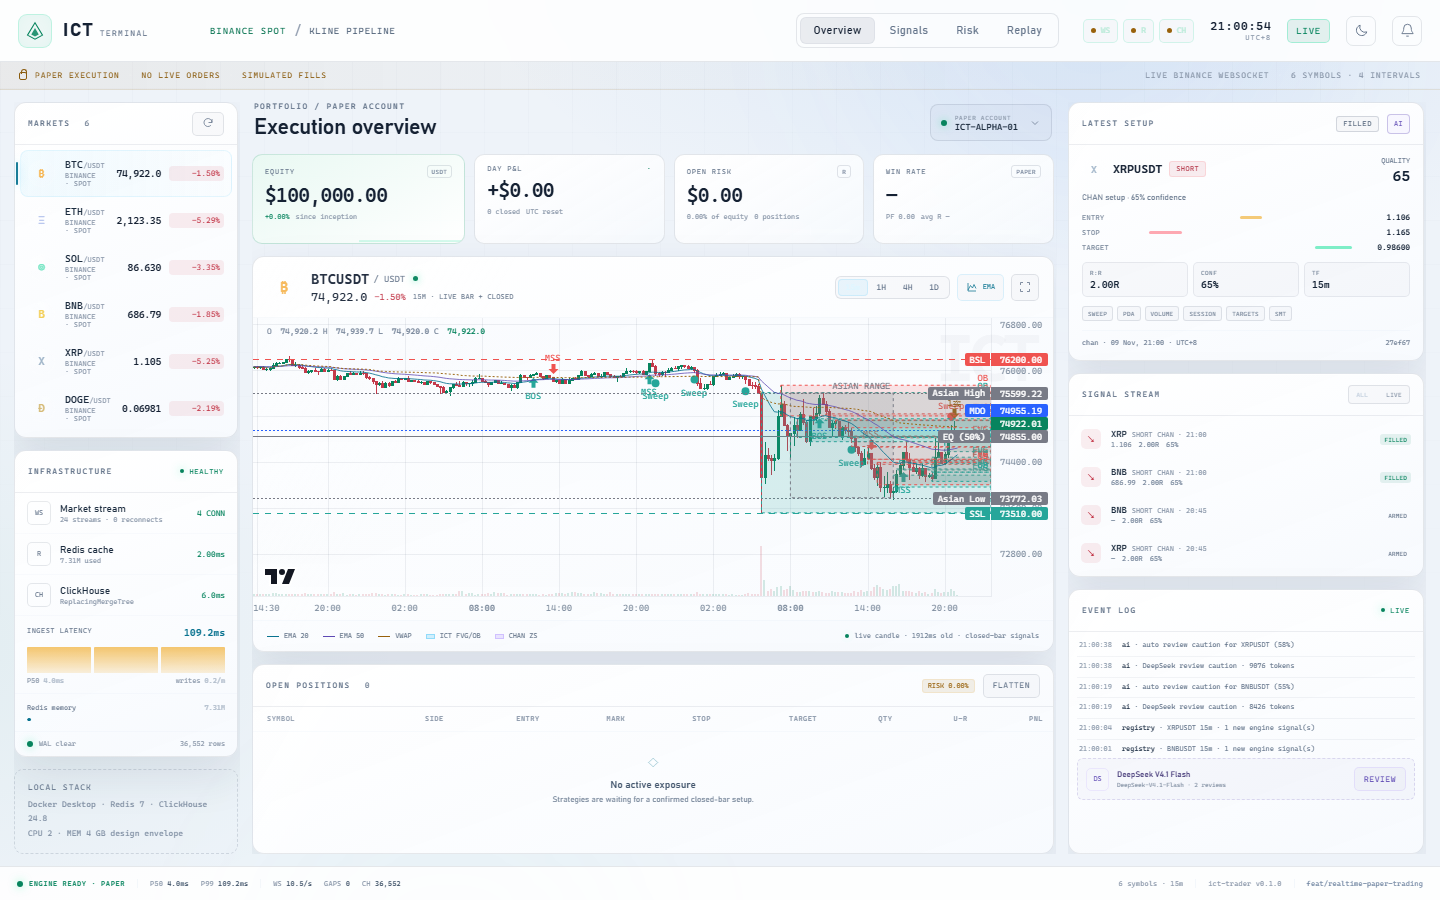
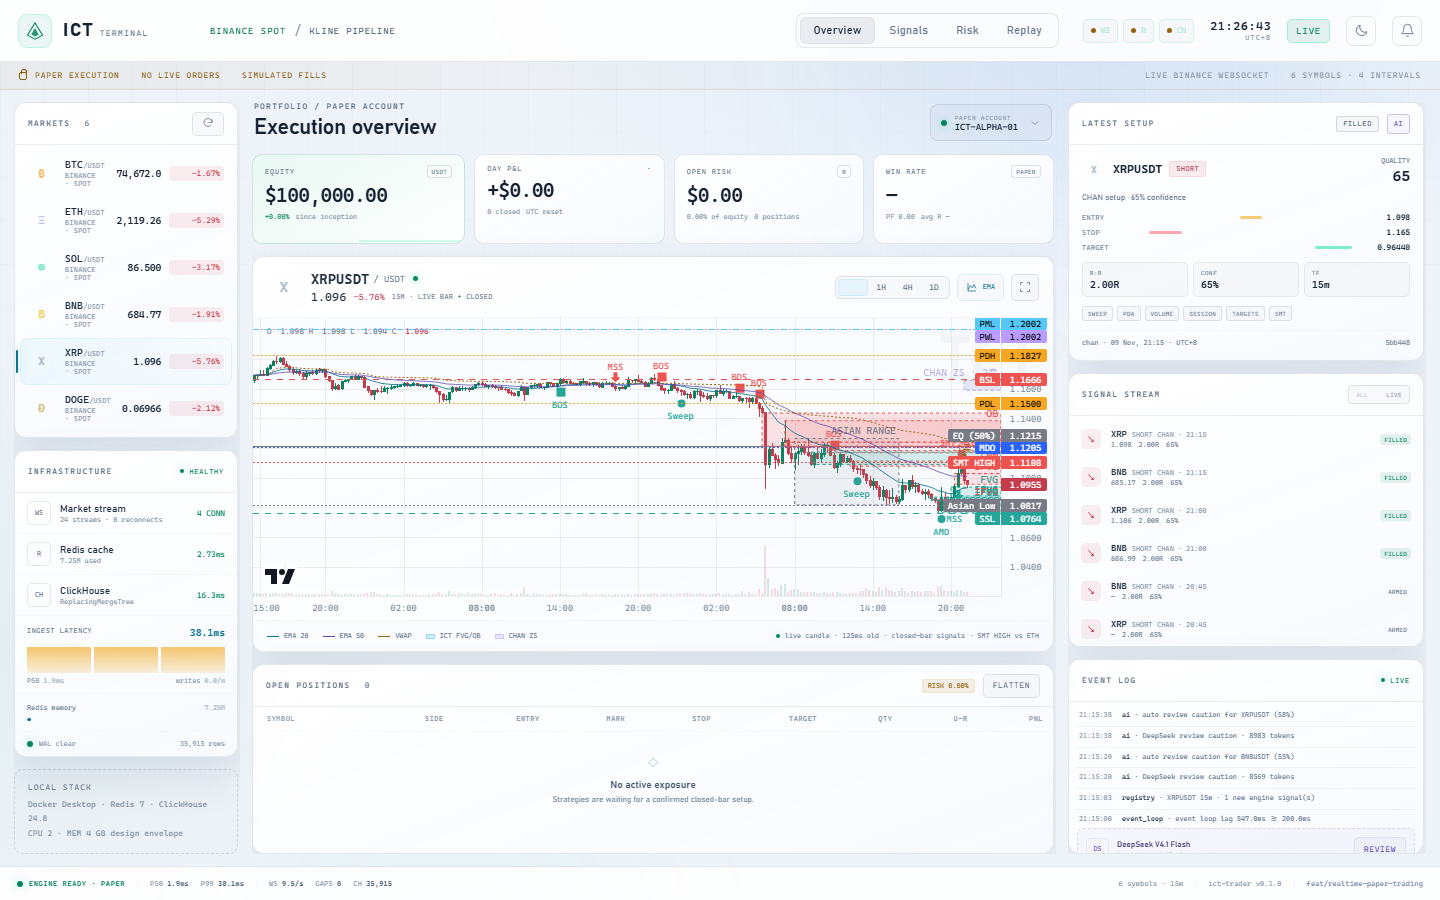
feat: add IFVG, CISD, PO3/AMD overlays

diff --git a/src/ict_trader/realtime/static/app.js b/src/ict_trader/realtime/static/app.js
@@ -1072,16 +1072,69 @@
       });
     };
 
-    // ICT FVG: 3-candle imbalance. Bullish = candle1.high < candle3.low.
+    // ICT FVG: 3-candle imbalance. A later close through the far edge
+    // converts the failed gap into an Inverse FVG (IFVG).
     for (let i = startIdx; i < bars.length - 1; i++) {
       const a = bars[i - 2], c = bars[i];
       if (!a || !c) continue;
       const bullGap = num(c.low) - num(a.high);
       const bearGap = num(a.low) - num(c.high);
       if (bullGap > minGap) {
-        addRect("FVG", "bullish", chartTime(a.open_time), num(a.high), num(c.low), "FVG");
+        let failed = false;
+        for (let j = i + 1; j < bars.length; j++) {
+          if (num(bars[j].close) < num(a.high)) { failed = true; break; }
+        }
+        if (failed) {
+          addRect("IFVG", "bearish", chartTime(a.open_time), num(a.high), num(c.low), "IFVG");
+        } else {
+          addRect("FVG", "bullish", chartTime(a.open_time), num(a.high), num(c.low), "FVG");
+        }
       } else if (bearGap > minGap) {
-        addRect("FVG", "bearish", chartTime(a.open_time), num(c.high), num(a.low), "FVG");
+        let failed = false;
+        for (let j = i + 1; j < bars.length; j++) {
+          if (num(bars[j].close) > num(a.low)) { failed = true; break; }
+        }
+        if (failed) {
+          addRect("IFVG", "bullish", chartTime(a.open_time), num(c.high), num(a.low), "IFVG");
+        } else {
+          addRect("FVG", "bearish", chartTime(a.open_time), num(c.high), num(a.low), "FVG");
+        }
+      }
+    }
+
+    // CISD: a bullish close through the open of a 2+ bearish run (and mirror).
+    let runDir = 0, runCount = 0, runOpen = 0;
+    for (let i = startIdx; i < bars.length; i++) {
+      const b = bars[i], o = num(b.open), c = num(b.close);
+      const bull = c > o;
+      const dir = bull ? 1 : c < o ? -1 : 0;
+      if (dir === 0) continue;
+      if (dir !== runDir) {
+        runDir = dir; runCount = 1; runOpen = o;
+      } else {
+        runCount += 1;
+      }
+      if (dir === 1 && runCount === 1 && runOpen) {
+        // runOpen belongs to the prior bearish run only if we just flipped.
+      }
+      if (dir === 1 && i > startIdx) {
+        const prev = bars[i - 1];
+        if (num(prev.close) < num(prev.open) && c > runOpen && i >= 2) {
+          // runOpen may be current bar's open after the flip; use the first
+          // bearish candle's open from the two-bar lookback instead.
+          const firstBear = bars[i - 2];
+          if (num(firstBear.close) < num(firstBear.open) && c > num(firstBear.open)) {
+            markers.push({ time: chartTime(b.open_time), position: "belowBar", shape: "square", color: "#26a69a", text: "CISD", kind: "CISD", direction: "bullish" });
+          }
+        }
+      } else if (dir === -1 && i > startIdx) {
+        const prev = bars[i - 1];
+        if (num(prev.close) > num(prev.open) && i >= 2) {
+          const firstBull = bars[i - 2];
+          if (num(firstBull.close) > num(firstBull.open) && c < num(firstBull.open)) {
+            markers.push({ time: chartTime(b.open_time), position: "aboveBar", shape: "square", color: "#ef5350", text: "CISD", kind: "CISD", direction: "bearish" });
+          }
+        }
       }
     }
 
@@ -1132,6 +1185,36 @@
       priceLines.push({ price: hi, title: "BSL", color: "#ef5350", lineStyle: 3, lineWidth: 1, startTime: first, endTime: end });
       priceLines.push({ price: lo, title: "SSL", color: "#26a69a", lineStyle: 3, lineWidth: 1, startTime: first, endTime: end });
       priceLines.push({ price: (hi + lo) / 2, title: "EQ (50%)", color: "#787b86", lineStyle: 0, lineWidth: 1, startTime: first, endTime: end });
+    }
+
+    // PO3 / AMD: Asian accumulation -> Judas manipulation -> distribution.
+    if (asianBars.length >= 4) {
+      const aHi = Math.max(...asianBars.map(b => num(b.high)));
+      const aLo = Math.min(...asianBars.map(b => num(b.low)));
+      const asianEndTime = chartTime(asianBars[asianBars.length - 1].open_time) + step / 1000;
+      const after = bars.filter(b => chartTime(b.open_time) >= asianEndTime && new Date(num(b.open_time)).toISOString().slice(0, 10) === lastDate);
+      const sweep = after.find(b => (num(b.high) > aHi && num(b.close) < aHi) || (num(b.low) < aLo && num(b.close) > aLo));
+      if (sweep) {
+        const bearSweep = num(sweep.high) > aHi && num(sweep.close) < aHi;
+        markers.push({
+          time: chartTime(sweep.open_time), position: bearSweep ? "aboveBar" : "belowBar",
+          shape: "circle", color: bearSweep ? "#ef5350" : "#26a69a",
+          text: "AMD", kind: "AMD", direction: bearSweep ? "bearish" : "bullish",
+        });
+        const sweepIdx = bars.indexOf(sweep);
+        const displacement = bars.slice(sweepIdx + 1).find(b => {
+          const body = Math.abs(num(b.close) - num(b.open));
+          const sameDir = bearSweep ? num(b.close) < num(b.open) : num(b.close) > num(b.open);
+          return sameDir && body > atr * 1.1;
+        });
+        if (displacement) {
+          markers.push({
+            time: chartTime(displacement.open_time), position: bearSweep ? "aboveBar" : "belowBar",
+            shape: "arrowDown", color: bearSweep ? "#ef5350" : "#26a69a",
+            text: "PO3", kind: "PO3", direction: bearSweep ? "bearish" : "bullish",
+          });
+        }
+      }
     }
 
     dailyLevels(priceLines);
@@ -1208,11 +1291,12 @@
     }
 
     const fvg = rectangles.filter(r => r.kind === "FVG").slice(-8);
+    const ifvg = rectangles.filter(r => r.kind === "IFVG").slice(-4);
     const ob = rectangles.filter(r => r.kind === "OB").slice(-4);
     const session = rectangles.filter(r => r.kind === "AsianRange");
     const chan = rectangles.filter(r => r.kind === "ChanZS");
     return {
-      rectangles: [...fvg, ...ob, ...session, ...chan].slice(-14),
+      rectangles: [...fvg, ...ifvg, ...ob, ...session, ...chan].slice(-16),
       priceLines: priceLines.slice(-12),
       markers: markers.slice(-12),
     };

diff --git a/docs/design/ICT_CHART_TYPES.ts b/docs/design/ICT_CHART_TYPES.ts
@@ -26,7 +26,7 @@ export interface ICTMarker {
   color: string;
   text: string;
   /** ICT concept: MSS, BOS, Sweep, BSP, SIG. */
-  kind: "MSS" | "BOS" | "Sweep" | "BSP" | "SIG" | "SMT";
+  kind: "MSS" | "BOS" | "Sweep" | "BSP" | "SIG" | "SMT" | "CISD" | "PO3" | "AMD";
   direction: ICTDirection;
 }
 
@@ -43,7 +43,7 @@ export interface ICTPriceLine {
 }
 
 export interface ICTRectangle {
-  kind: "FVG" | "OB" | "AsianRange" | "ChanZS";
+  kind: "FVG" | "IFVG" | "OB" | "AsianRange" | "ChanZS";
   direction: ICTDirection;
   startTime: UnixSeconds;
   endTime: UnixSeconds;

diff --git a/docs/REALTIME.md b/docs/REALTIME.md
@@ -286,6 +286,11 @@ Implemented ICT semantics:
 
 - `MSS` / `BOS` / `Sweep` markers from confirmed pivots;
 - `FVG` rectangles: 3-candle imbalance, bullish green/bearish red;
+- `IFVG`: a failed FVG after a close through its far edge, drawn as the
+  inverse polarity;
+- `CISD`: change in state of delivery, close through a 2+ candle run;
+- `PO3 / AMD`: Asian accumulation -> Judas/manipulation sweep -> distribution
+  displacement;
 - `OB` rectangles: last opposite candle before displacement;
 - `Asian Range` background rectangle and High/Low price lines;
 - `MDO` midnight-open line;

diff --git a/README.md b/README.md
@@ -33,7 +33,7 @@ This branch adds a local, Docker-backed realtime paper-trading stack around the
 same frozen setup: live Binance combined-stream WS ingestion, Redis hot cache,
 ClickHouse closed-bar storage, gap detection + REST backfill, a SQLite WAL retry
 queue, a closed-bar strategy adapter, a deterministic paper broker and a
-self-contained Lightweight Charts dashboard with ICT/Chan overlays.
+self-contained Lightweight Charts dashboard with ICT/Chan overlays, FVG/IFVG/CISD, PO3/AMD and ETH SMT.
 
 ```powershell
 # Redis + ClickHouse (memory-capped, local-only ports)
